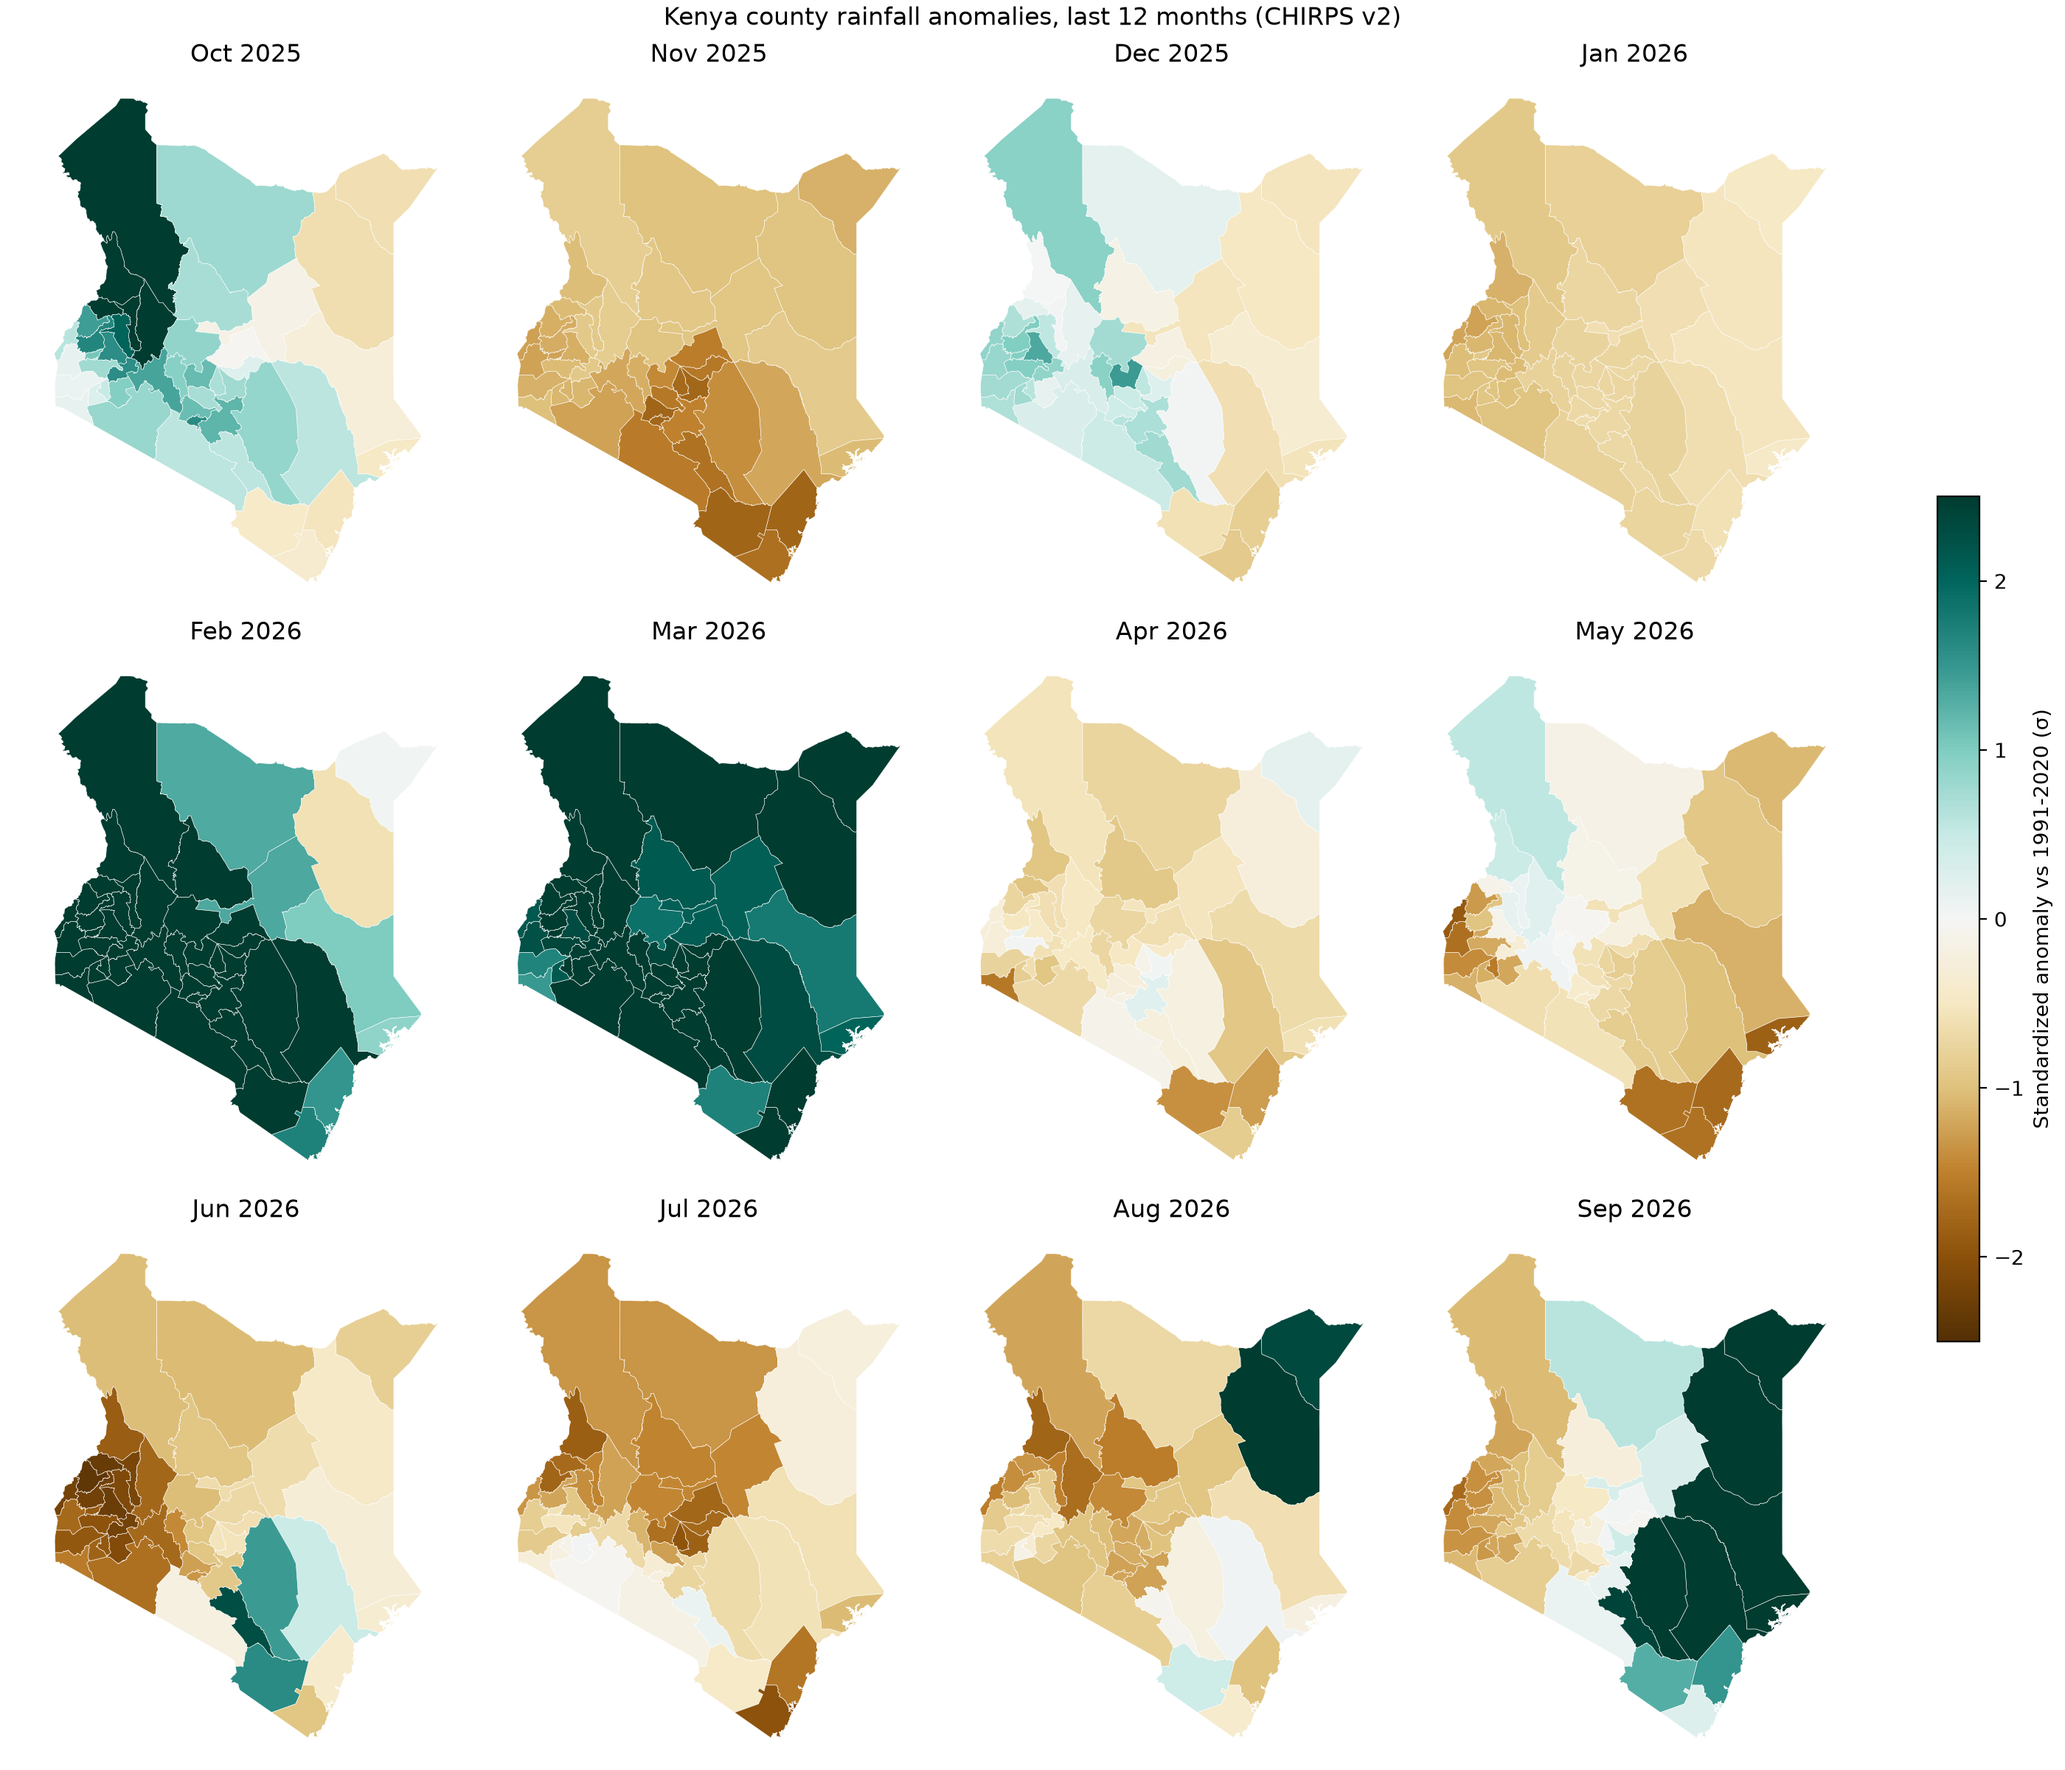
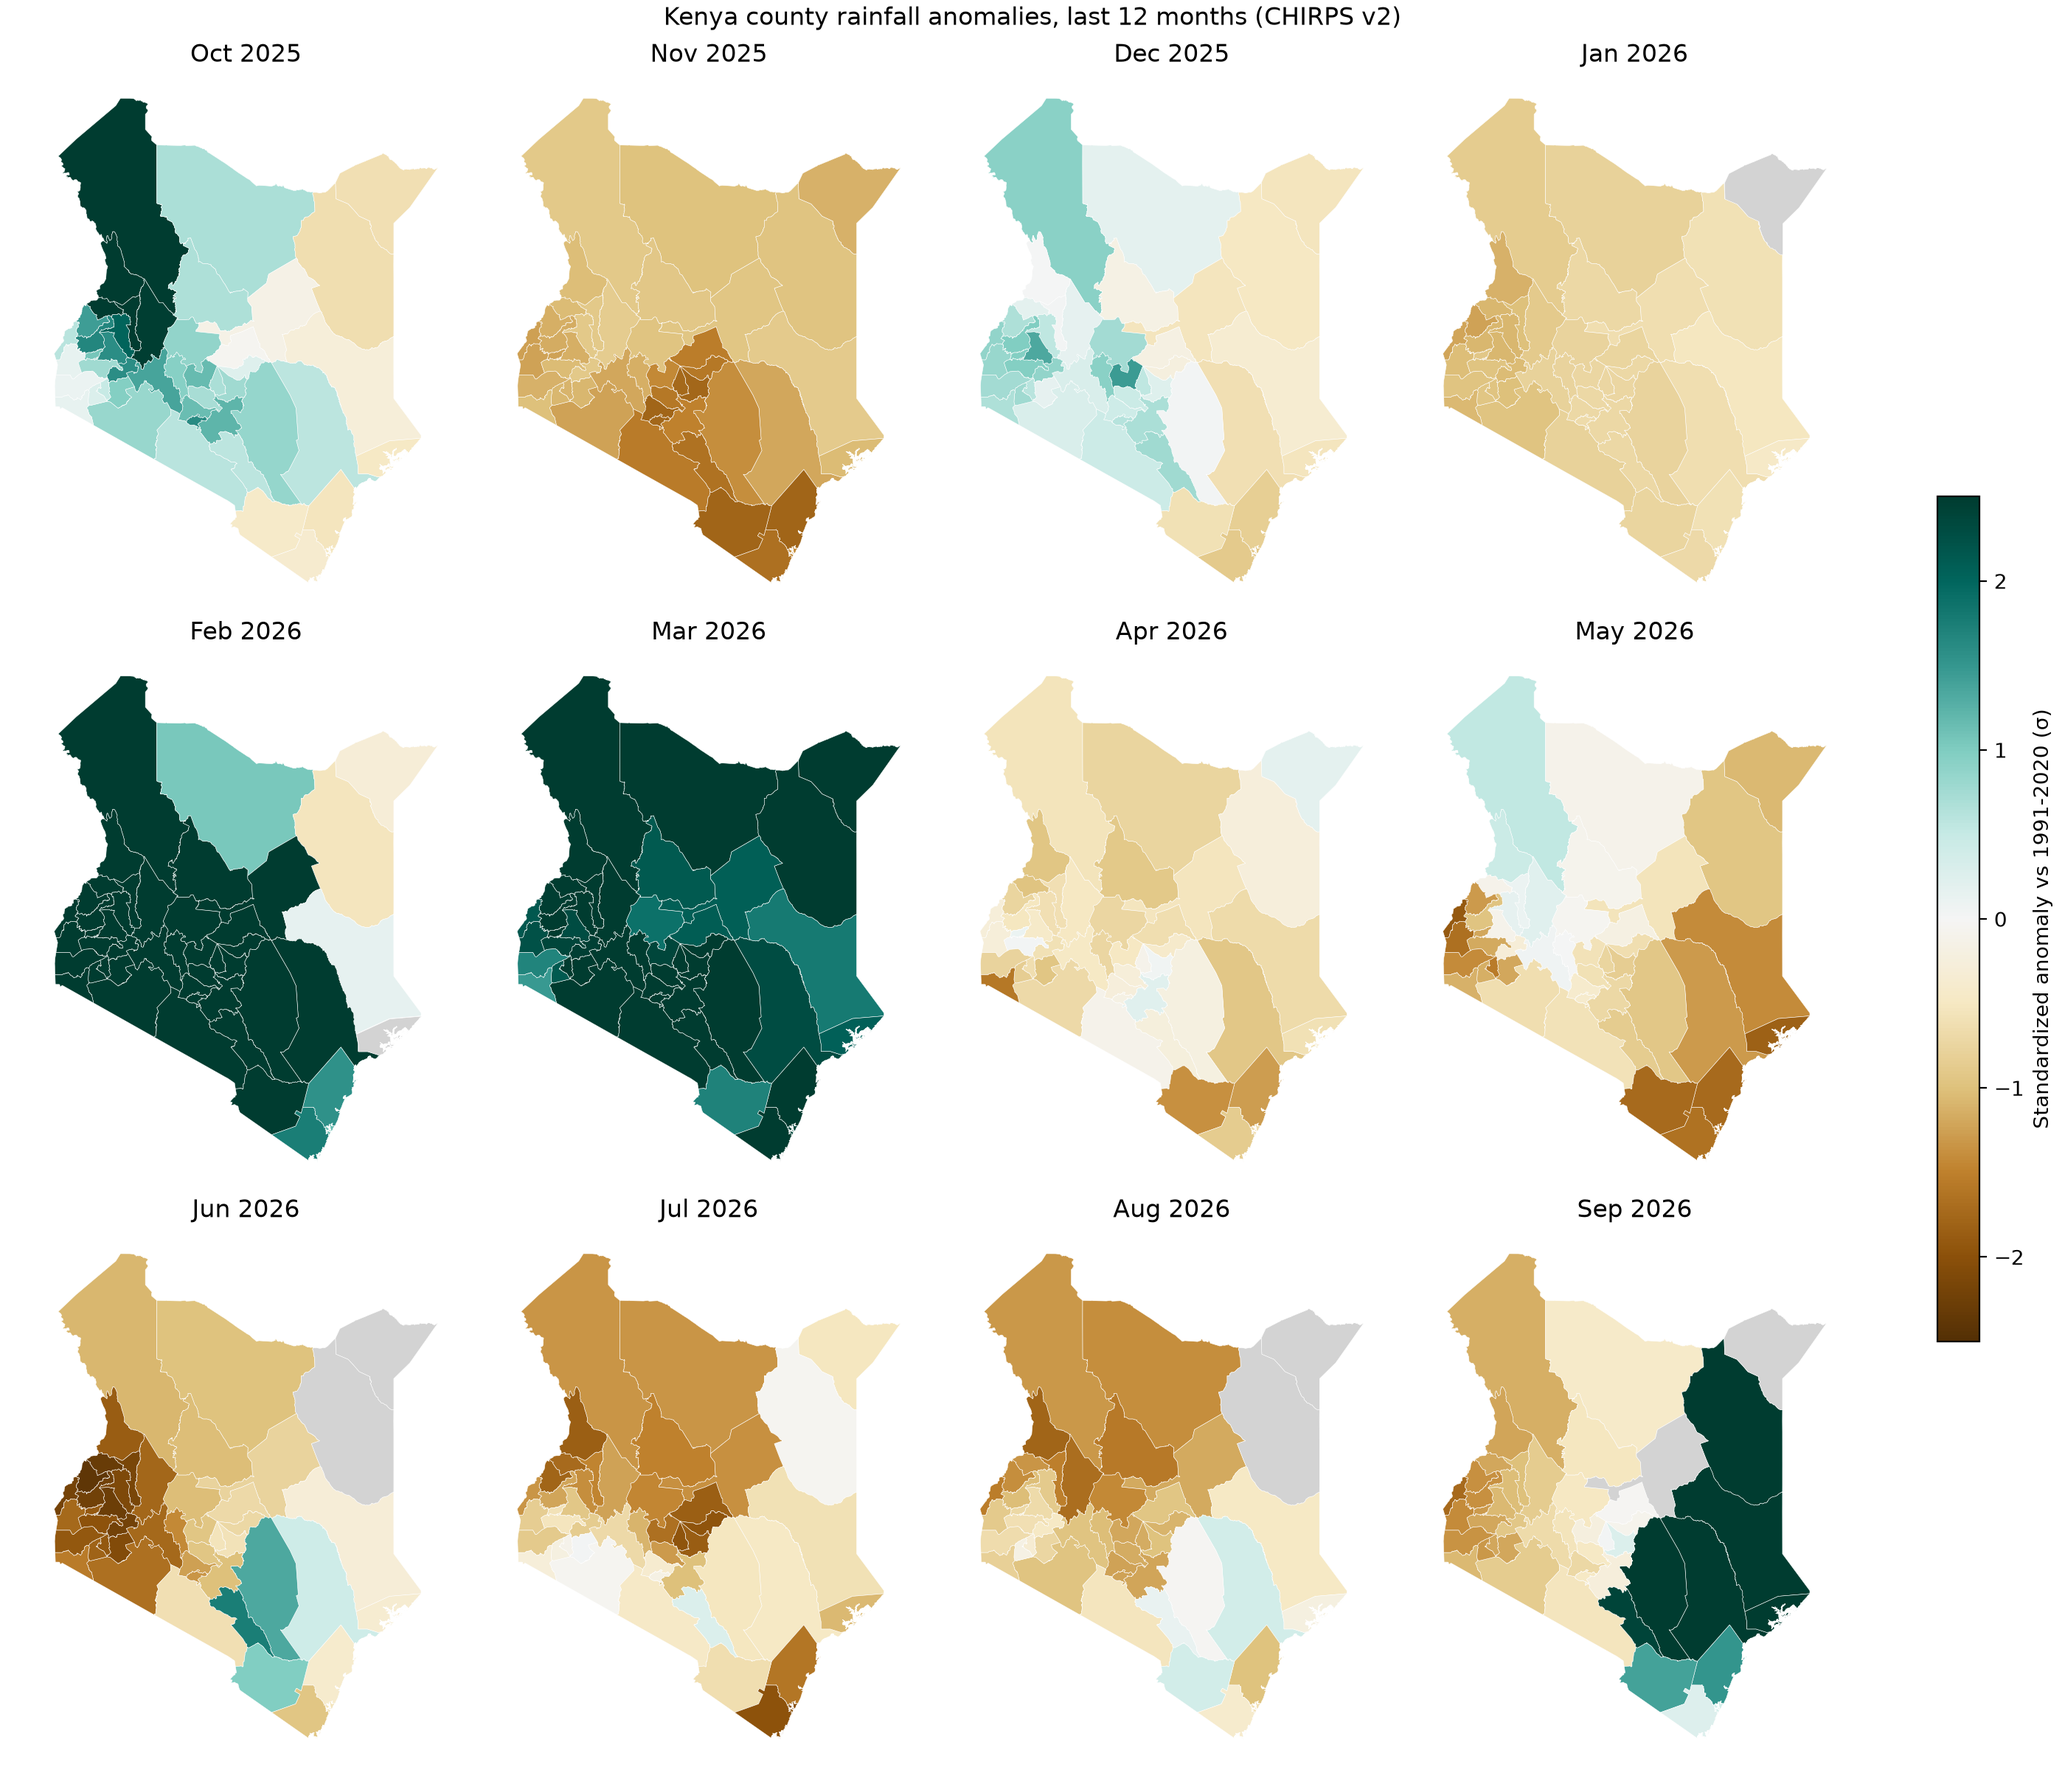
fix: update the code to reflect north-easterns actual rainfall trends

diff --git a/day-02/analysis.py b/day-02/analysis.py
@@ -75,22 +75,48 @@ fig.suptitle("Kenya county rainfall anomalies, last 12 months (CHIRPS v2)")
 fig.savefig(FIGS / "county_anomalies_last12.png", dpi=200)
 plt.show()
 
-# %% Validation: do known droughts and floods show up?
+# %% Validation, by season: do known droughts and floods show up?
 pick = ["Mandera", "Wajir", "Marsabit"]
-ts = df[df["county"].isin(pick) & (df["time"] >= "2019-01")]
-ts = ts.pivot(index="time", columns="county", values="z_anomaly")
-smooth = ts.rolling(3, min_periods=2).mean()
-
-fig, ax = plt.subplots(figsize=(11, 4))
-for county in smooth.columns:
-    ax.plot(smooth.index, smooth[county], label=county)
-ax.axhline(0, color="black", linewidth=0.8)
-ax.axvspan(
-    pd.Timestamp("2020-10-01"), pd.Timestamp("2022-12-31"),
-    color="tan", alpha=0.25, label="2020-22 drought",
-)
-ax.set_ylabel("3-month mean z")
-ax.set_title("Rainfall anomalies in north-eastern Kenya")
-ax.legend()
+seasons = {
+    "MAM long rains": ([3, 4, 5], (2020.5, 2022.5)),  # failed: 2021, 2022
+    "OND short rains": ([10, 11, 12], (2019.5, 2022.5)),  # failed: 2020-2022
+}
+fig, axes = plt.subplots(2, 1, figsize=(11, 7), sharex=True, constrained_layout=True)
+for ax, (label, (months, drought)) in zip(axes, seasons.items(), strict=True):
+    zs = an.county_means(an.seasonal_anomaly(pr, months), counties)
+    table = zs.to_dataframe(name="z").reset_index()
+    table = table.pivot(index="year", columns="names", values="z")
+    table.loc[2019:, pick].plot(ax=ax, marker="o")
+    ax.axhline(0, color="black", linewidth=0.8)
+    ax.axvspan(*drought, color="tan", alpha=0.25, label="2020-22 drought")
+    ax.set_title(label)
+    ax.set_ylabel("Seasonal z")
+    ax.legend(loc="upper left")
+fig.suptitle("Seasonal rainfall anomalies in north-eastern Kenya (vs 1991-2020)")
 fig.savefig(FIGS / "validation_northeast.png", dpi=200, bbox_inches="tight")
 plt.show()
+
+# %% Diagnose: real extremes or dry-month artefacts?
+def county_table(da, name):
+    return an.county_means(da, counties).to_dataframe(name=name).reset_index()
+
+rain = county_table(pr, "rain_mm")
+rain["month"] = rain["time"].dt.month
+normal = county_table(clim_mean, "normal_mm")[["month", "names", "normal_mm"]]
+spread = county_table(clim_std, "std_mm")[["month", "names", "std_mm"]]
+
+diag = rain.merge(normal, on=["month", "names"]).merge(spread, on=["month", "names"])
+diag["pct_of_normal"] = 100 * diag["rain_mm"] / diag["normal_mm"]
+suspects = diag["names"].isin(["Wajir", "Mandera", "Turkana"]) & diag["time"].isin(
+    pd.to_datetime(["2026-02-01", "2026-03-01", "2026-08-01", "2026-09-01"])
+)
+print(diag[suspects].round(1).to_string(index=False))
+
+top = pr.where(pr >= 1000, drop=True).stack(p=("time", "lat", "lon")).dropna("p")
+print(diag[suspects].to_string(index=False, float_format="%.1f"))
+# %% How dry can z even go? Floor = z for a season with zero rain
+season = pr.sel(time=pr.time.dt.month.isin([10, 11, 12]))
+totals = season.groupby("time.year").sum("time", min_count=3).sel(year=slice(1991, 2020))
+floor = an.county_means(-totals.mean("year") / totals.std("year"), counties)
+floor_table = floor.to_dataframe(name="z_floor").reset_index()
+print(floor_table[floor_table["names"].isin(pick)][["names", "z_floor"]].round(2))

diff --git a/day-02/anomaly.py b/day-02/anomaly.py
@@ -33,16 +33,20 @@ def monthly_climatology(
 
 
 def standardized_anomaly(
-    pr: xr.DataArray, clim_mean: xr.DataArray, clim_std: xr.DataArray, min_std: float = 1.0
+    pr: xr.DataArray,
+    clim_mean: xr.DataArray,
+    clim_std: xr.DataArray,
+    min_std: float = 1.0,
+    min_mean: float = 10.0,
 ) -> xr.DataArray:
     """(rainfall - monthly mean) / monthly std, for every pixel and month.
-
-    Where a month is almost always dry (std < min_std mm), the result is NaN:
-    dividing by a tiny std would turn 3 mm of rain into a record-breaking anomaly.
+    NaN where the month is normally near-dry (mean < min_mean mm) or barely
+    varies (std < min_std mm): there, a few mm of rain gives a huge but
+    meaningless z-score.
     """
-    safe_std = clim_std.where(clim_std >= min_std)
+    valid = (clim_std >= min_std) & (clim_mean >= min_mean)
     anom = pr.groupby("time.month") - clim_mean
-    z = anom.groupby("time.month") / safe_std
+    z = anom.groupby("time.month") / clim_std.where(valid)
     return z.drop_vars("month").rename("z_anomaly")
 
 
@@ -66,3 +70,17 @@ def county_means(
         raise ValueError(f"counties with no pixel centres: {empty}")
     weights = mask * np.cos(np.deg2rad(da.lat))
     return da.weighted(weights).mean(("lat", "lon"))
+
+def seasonal_anomaly(
+    pr: xr.DataArray, months: list[int], start: int = 1991, end: int = 2020
+) -> xr.DataArray:
+    """Standardized anomaly of seasonal rainfall totals, one value per pixel per year.
+
+    Only for seasons inside one calendar year (e.g. MAM, OND). A season with any
+    missing month is NaN rather than an undercount.
+    """
+    season = pr.sel(time=pr.time.dt.month.isin(months))
+    totals = season.groupby("time.year").sum("time", min_count=len(months))
+    base = totals.sel(year=slice(start, end))
+    z = (totals - base.mean("year")) / base.std("year")
+    return z.rename("z_season")
